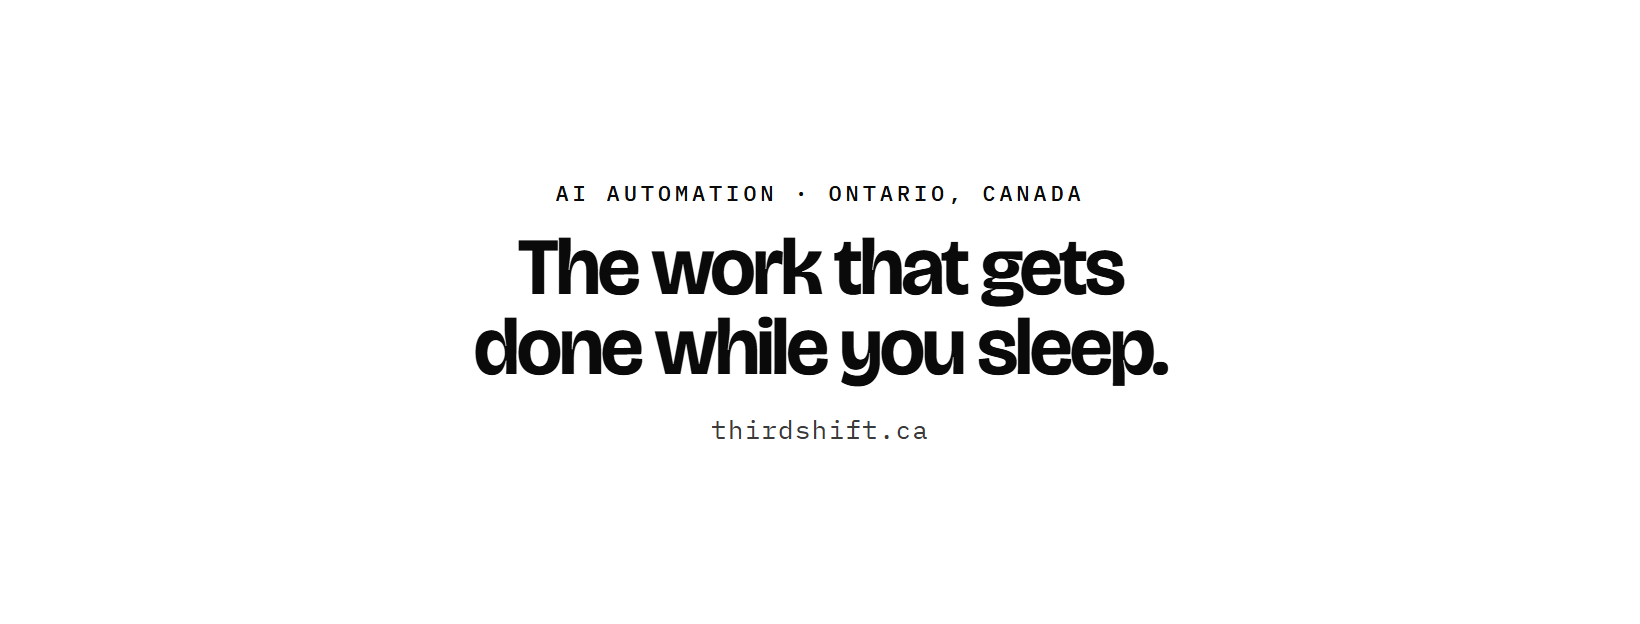
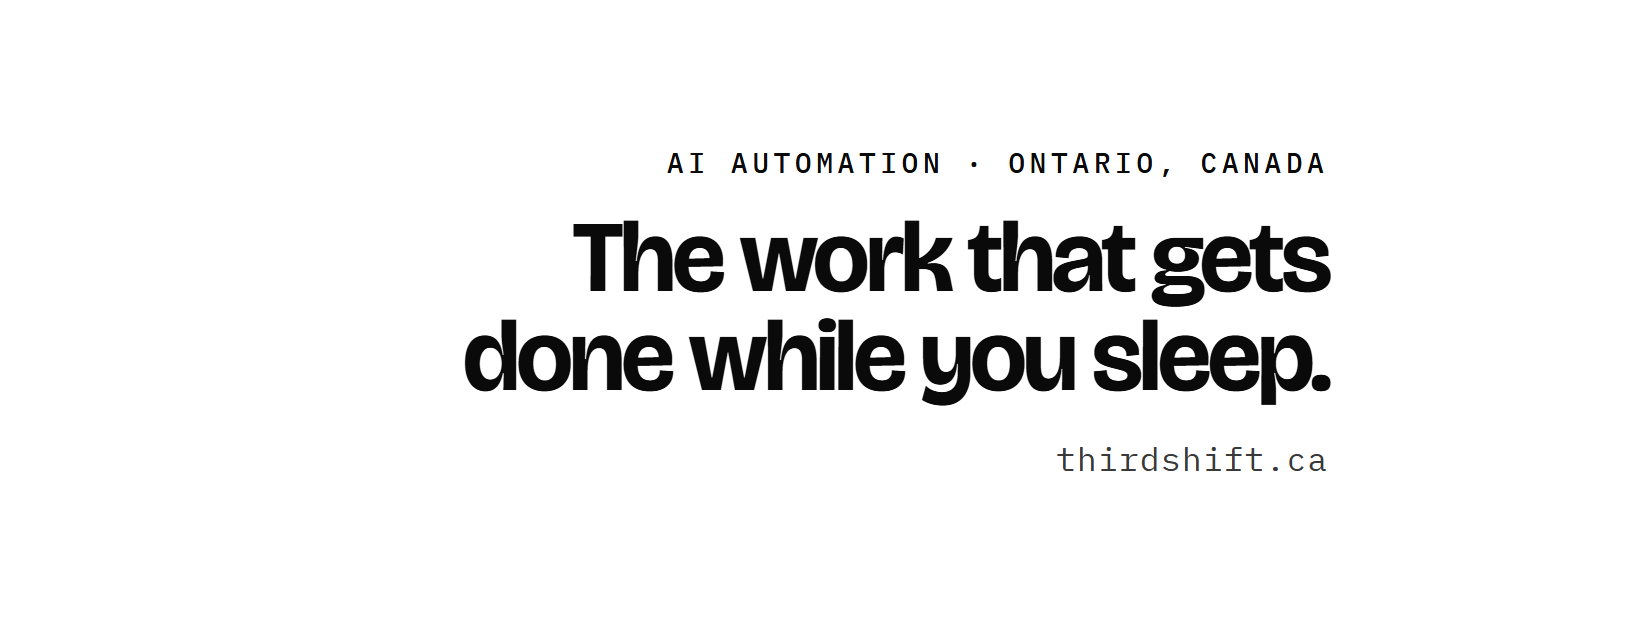
X header and Facebook cover: larger text, right-aligned
zoom= scales the cover's text block. X is 1.45 at the usual right margin; Facebook is 1.25 inside its phone-safe inset. Both keep the bottom left clear for the profile picture.

Changed region(s): [[0.2799, 0.2436, 0.8085, 0.6699], [0.653, 0.7003, 0.8085, 0.7612], [0.4354, 0.6699, 0.5598, 0.7003]]

diff --git a/tools/brand/art.html b/tools/brand/art.html
@@ -271,12 +271,14 @@ function buildBanner() {
   const url = el("div", "url", "thirdshift.ca");
   const text = el("div", "text" + (centred ? " center" : ""), kick, head, url);
   if (q.get("inset") && !centred) text.style.right = (+q.get("inset") * 100) + "%";
+  // zoom=1.4 makes the text block larger, for covers that carry nothing but the text.
+  const z = +(q.get("zoom") || 1);
   if (tall) {
-    kick.style.fontSize = (u * 3.6) + "px";
-    head.style.fontSize = (u * 13) + "px";
-    head.style.maxWidth = (W * .52) + "px";
-    head.style.margin = (u * 3.4) + "px 0 " + (u * 4) + "px";
-    url.style.fontSize = (u * 4.2) + "px";
+    kick.style.fontSize = (u * 3.6 * z) + "px";
+    head.style.fontSize = (u * 13 * z) + "px";
+    head.style.maxWidth = (W * .52 * z) + "px";
+    head.style.margin = (u * 3.4 * z) + "px 0 " + (u * 4 * z) + "px";
+    url.style.fontSize = (u * 4.2 * z) + "px";
   } else {
     // very wide and short (LinkedIn page cover): one line
     kick.style.fontSize = (u * 6.4) + "px";
